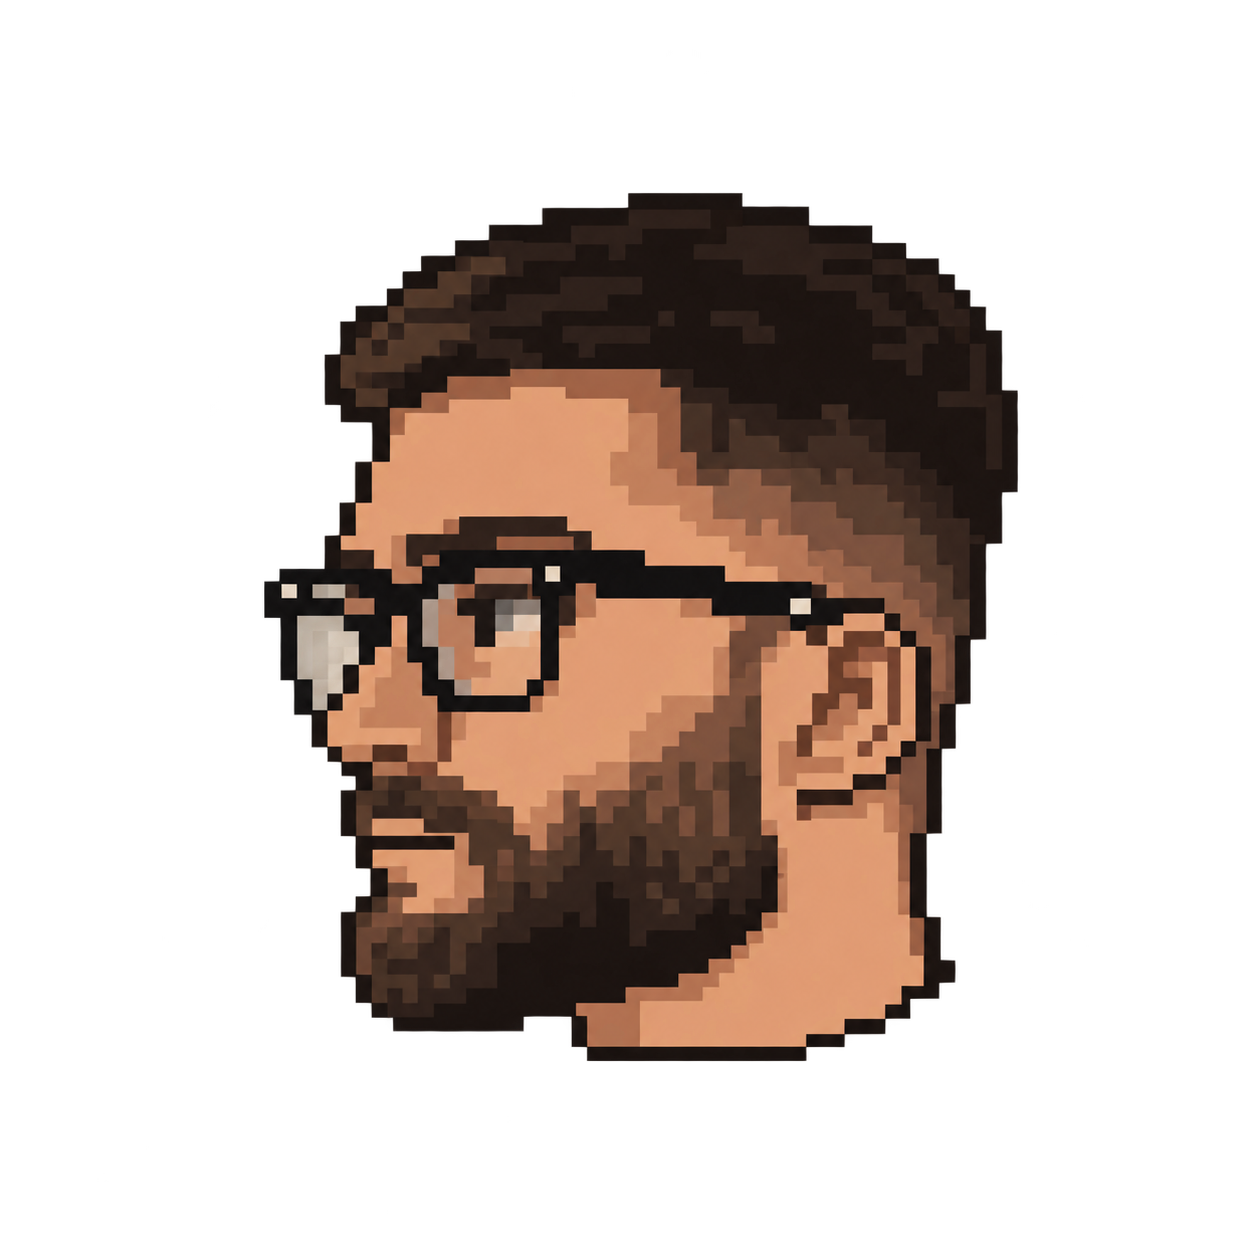
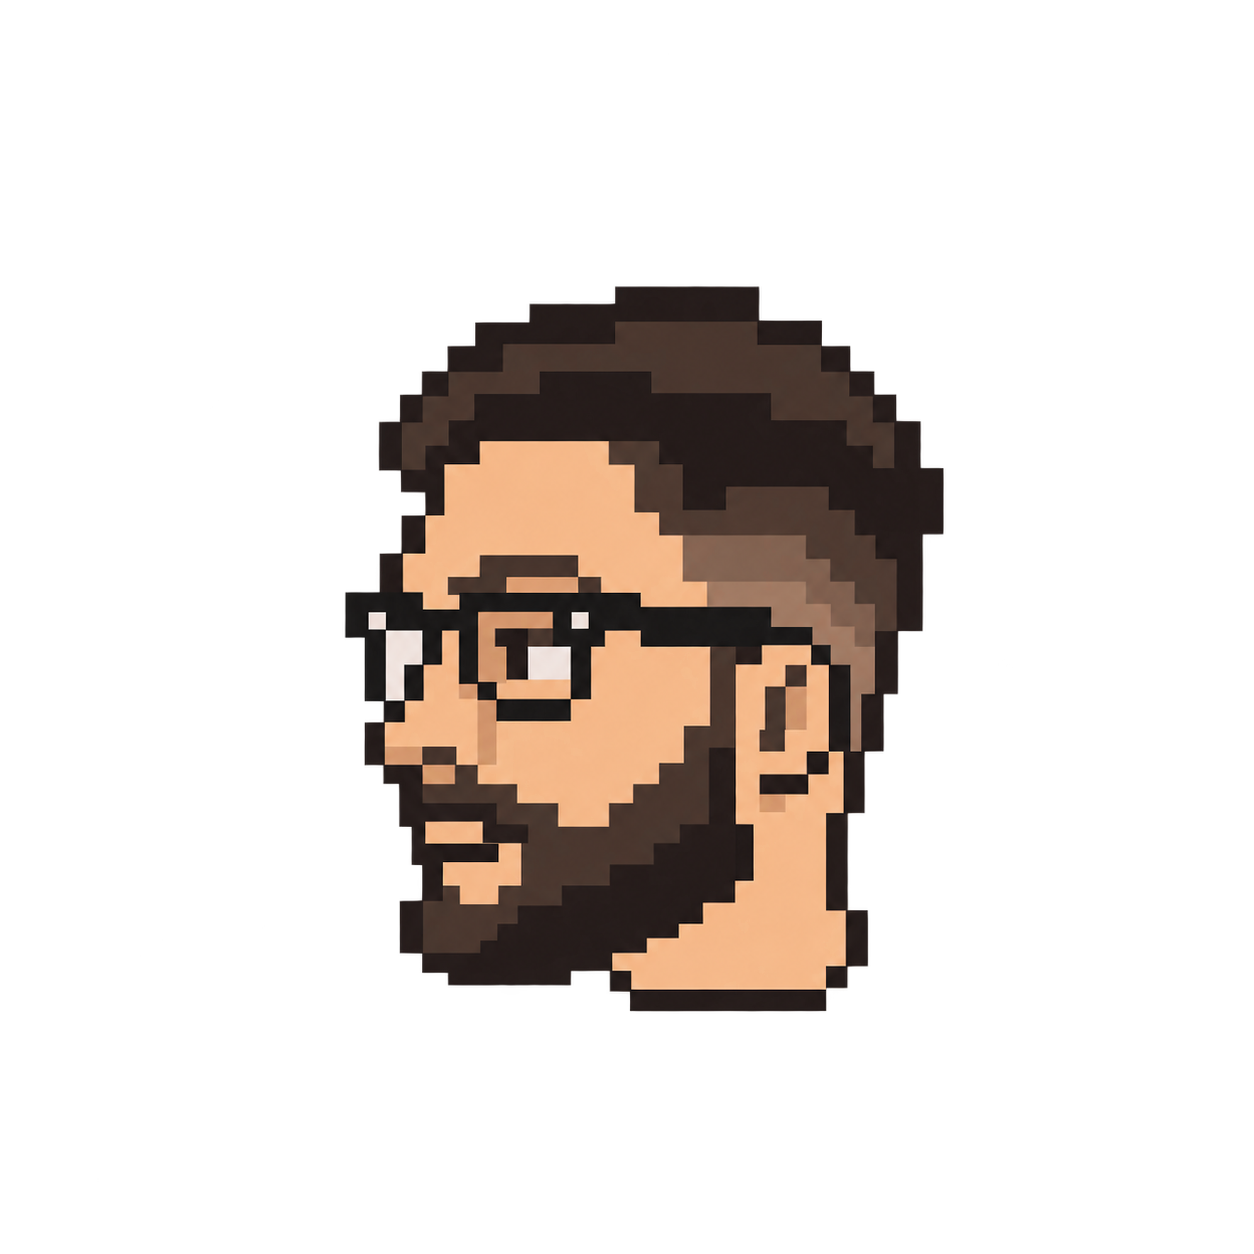
Обновлён пиксельный портрет и иконка сайта

Changed region(s): [[0.1866, 0.1555, 0.8397, 0.8708]]

diff --git a/index.html b/index.html
@@ -4,8 +4,8 @@
 <meta charset="UTF-8">
 <meta name="viewport" content="width=device-width, initial-scale=1.0, viewport-fit=cover">
 <title>AnastasOS — Анастас Григорян</title>
-<link rel="icon" type="image/png" href="favicon.png">
-<link rel="apple-touch-icon" href="favicon.png">
+<link rel="icon" type="image/png" href="icon_about.png?v=3">
+<link rel="apple-touch-icon" href="icon_about.png?v=3">
 <meta name="description" content="Анастас Григорян — Project Manager. Проекты в retail, fintech и IT. Личный сайт AnastasOS.">
 <meta name="theme-color" content="#1a1a1a">
 <meta property="og:type" content="website">
@@ -103,7 +103,7 @@
 
         <div class="home-icons">
           <div class="mw-icon" data-app="about" title="Обо мне">
-            <div class="mw-icon-img"><img src="icon_about.png?v=2" alt=""></div>
+            <div class="mw-icon-img"><img src="icon_about.png?v=3" alt=""></div>
             <div class="mw-icon-lbl">Обо мне</div>
           </div>
 
@@ -144,7 +144,7 @@
       <section class="mw-section" data-sec="about">
         <h2 class="sec-h">/ about /</h2>
         <div class="ab-top">
-          <div class="ab-ava"><img src="icon_about.png?v=2" alt="Анастас Григорян — пиксельный портрет"></div>
+          <div class="ab-ava"><img src="icon_about.png?v=3" alt="Анастас Григорян — пиксельный портрет"></div>
           <div class="ab-head">
             <div class="ab-name">Анастас Григорян</div>
             <div class="ab-role">Project Manager</div>
